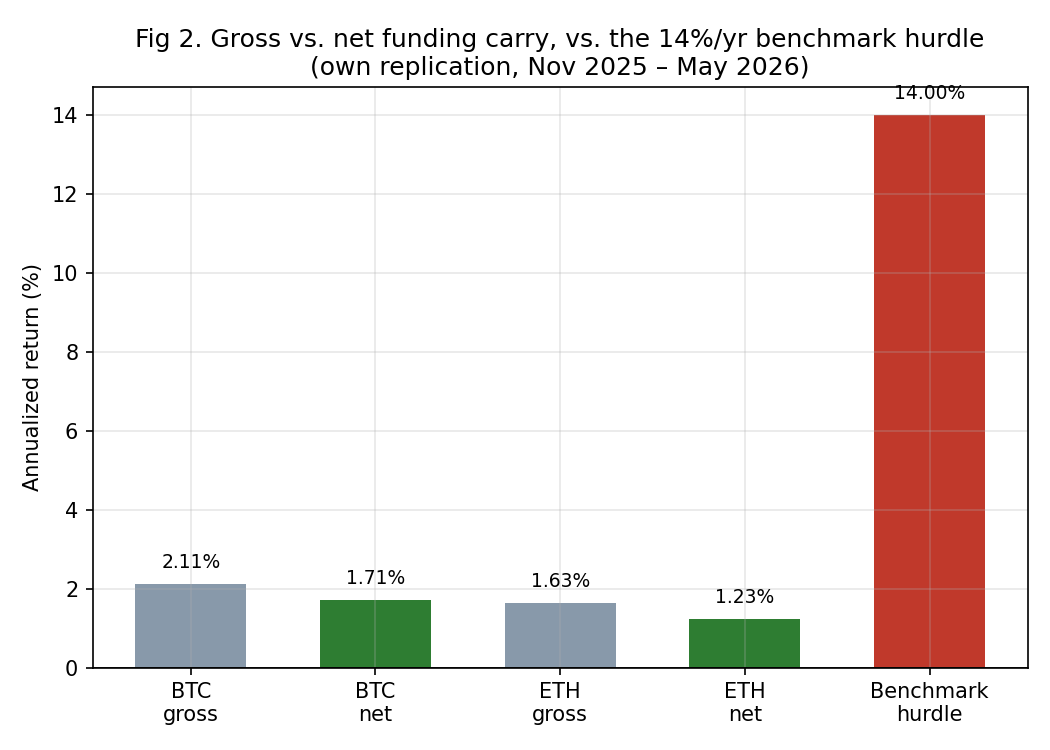
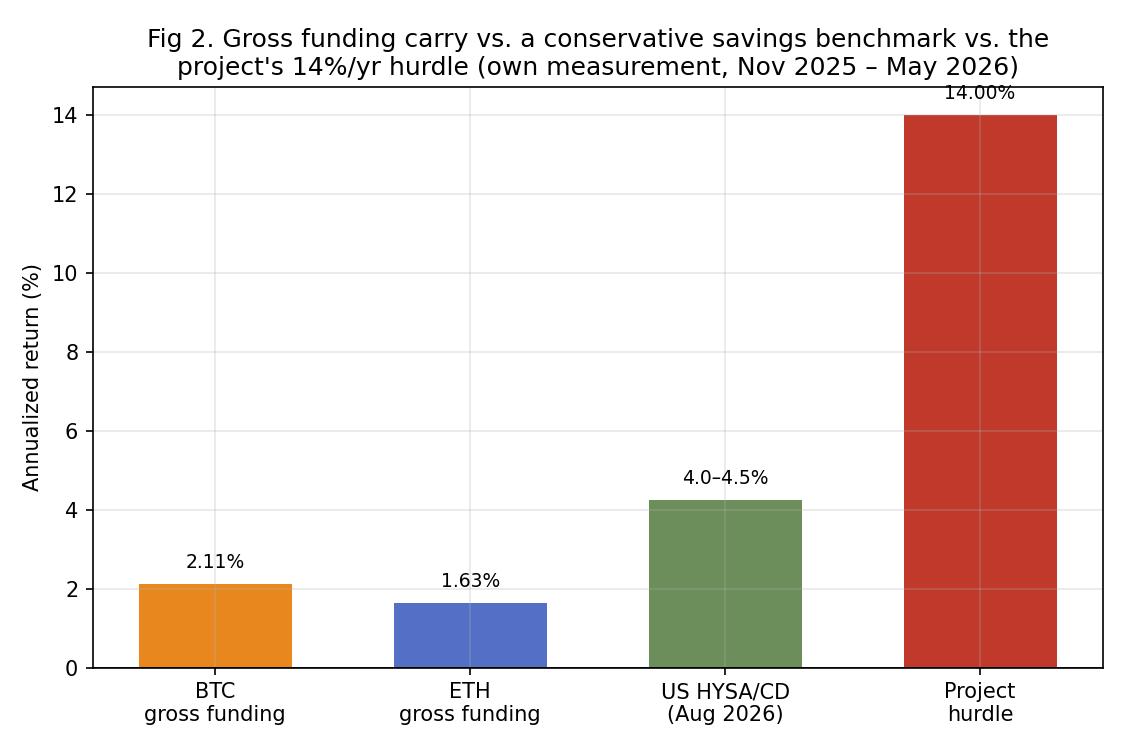
RN04: fix net-of-costs overclaim, tighten hurdle framing, update citations
- Removed mathematically invalid net-of-costs figures (flat round-trip
  cost cannot be treated as an annualized haircut without holding-period
  and turnover assumptions). Section 5 now argues the gross funding
  yield alone already fails the hurdle, no cost adjustment needed.
- Regenerated fig2 without fabricated net bars; now shows gross BTC/ETH
  vs. US HYSA/CD vs. project hurdle.
- Class line split: 'Empirically tested' scoped to the funding
  measurement only, not a full spot/perp strategy replication.
- Reframed the 14% hurdle as the project's own pre-registered
  capital-allocation decision (fixed internally 07.08, per
  SYSTEM3_ROADMAP.md) rather than an unverified crypto-lending rate.
  Trimmed the Knight/Markowitz/Sharpe paragraph; softened the
  arbitrage-decay claim from causal to 'consistent with'.
- Fixed typo (push-ing), precise 'mechanically annualized' wording in
  Section 4 and figure captions, updated He et al. and Schmeling et al.
  citations to their current status (He: last revised June 2025, under
  review at RFS; Schmeling: published in Management Science, online
  May 6 2026, DOI verified directly against pubsonline).

diff --git a/04-carry/carry-a-real-edge-i-wouldnt-trade.md b/04-carry/carry-a-real-edge-i-wouldnt-trade.md
@@ -3,7 +3,7 @@
 **Author:** Oleg Arefev
 **Published:** August 2026
 **Status:** `Published`
-**Class:** Empirically tested (own replication on real Binance funding data, BTC/ETH, 636 8-hour periods) + Literature-based (second candidate implementation — fixed-date basis — closed on literature alone, before replication; see Section 7)
+**Class:** Empirically tested (own measurement of real Binance BTC/ETH funding data, 636 8-hour periods each) + Literature-based (fixed-date basis closed on literature alone, before replication; see Section 7)
 
 **Research question:** perpetual futures funding carry has genuine academic backing — a documented, economically explained inefficiency, not a mined pattern. Does it still clear a realistic capital-cost hurdle when measured on real, recent Binance data, or does an edge that is statistically and economically real in the literature turn out to be too small to bother trading once it's actually measured?
 
@@ -13,13 +13,13 @@
 
 Carry is a different kind of candidate than the first three notes in this series. Grid's positive backtests came with unresolved capital-accounting and fill-model questions. Cross-sectional momentum's published spread turned out to be a genuinely marginal number that costs erased. Time-series trend's positive evidence belonged to a market regime that no longer exists. Perpetual funding carry, by contrast, arrives with an explained economic mechanism, multiple independent confirmations, and reported Sharpe ratios large enough that dismissing the idea outright, without checking it, would have been the wrong call.
 
-He, Manela, Ross, and von Wachter (2024), in "Fundamentals of Perpetual Futures," derive no-arbitrage bounds for perpetual futures pricing and find that an implied arbitrage strategy — long spot, short the perpetual, collecting the funding rate — generates a Sharpe ratio of 1.80 for Bitcoin even after accounting for realistic trading costs. Christin, Routledge, Soska, and Zetlin-Jones (2022), in "The Crypto Carry Trade," independently studying the same underlying trade on a major exchange, report in-sample annual Sharpe ratios "in the range of 7 to 10" — figures large enough that the paper's own framing treats the trade's profitability as a puzzle requiring an economic explanation, not simply a headline result. Schmeling, Schrimpf, and Todorov (2025), in "Crypto Carry," a BIS-affiliated study, document that crypto carry can exceed 40% per annum at times and averages roughly 7% per year on a fixed-date basis — about ten times the equivalent measure in traditional G10 currency carry.
+He, Manela, Ross, and von Wachter, in "Fundamentals of Perpetual Futures" (working paper, last revised June 2025), derive no-arbitrage bounds for perpetual futures pricing and find that an implied arbitrage strategy — long spot, short the perpetual, collecting the funding rate — generates a Sharpe ratio of 1.80 for Bitcoin even after accounting for realistic trading costs. Christin, Routledge, Soska, and Zetlin-Jones (2022), in "The Crypto Carry Trade," independently studying the same underlying trade on a major exchange, report in-sample annual Sharpe ratios "in the range of 7 to 10" — figures large enough that the paper's own framing treats the trade's profitability as a puzzle requiring an economic explanation, not simply a headline result. Schmeling, Schrimpf, and Todorov (2026), in "Crypto Carry" — originally circulated as a BIS working paper, now published in Management Science — document that crypto carry can exceed 40% per annum at times and averages roughly 7% per year on a fixed-date basis — about ten times the equivalent measure in traditional G10 currency carry.
 
 This is the kind of convergence this series looks for before opening a lab: three separate research teams, different data windows, different exact constructions, all finding the same thing — a real, economically explained, and historically large source of return from holding the "carry" side of crypto's perpetual futures market.
 
 ## 2. What Perpetual Funding Carry Actually Is
 
-Perpetual futures don't expire, so they can't rely on convergence to spot at a fixed maturity date the way traditional futures do. To keep the perpetual's price tethered to spot, exchanges built in a mechanism: every funding interval (eight hours, on Binance), whichever side of the market is push- ing the perpetual's price away from spot pays the other side a funding rate proportional to that gap. When the perpetual trades above spot — the more common condition in a market with persistent net-long, leveraged retail demand — longs pay shorts.
+Perpetual futures don't expire, so they can't rely on convergence to spot at a fixed maturity date the way traditional futures do. To keep the perpetual's price tethered to spot, exchanges built in a mechanism: every funding interval (eight hours, on Binance), whichever side of the market is pushing the perpetual's price away from spot pays the other side a funding rate proportional to that gap. When the perpetual trades above spot — the more common condition in a market with persistent net-long, leveraged retail demand — longs pay shorts.
 
 The carry trade harvests this payment while staying market-neutral: go short the perpetual and simultaneously long the equivalent notional in spot (or a fixed-maturity future), so that price moves in the underlying largely net out between the two legs, and what's left is the periodic funding payment. In principle, this converts a payment mechanism designed to keep two prices in line into an income stream for whoever is willing to hold the short side of that spread.
 
@@ -35,7 +35,7 @@ Schmeling, Schrimpf, and Todorov go further and establish a causal link using a 
 
 None of these three findings, on its own, closes the hypothesis — a documented long-run decline doesn't mean the strategy is unprofitable today, only that it's likely smaller than its historical average. That's exactly why this project didn't stop at the literature stage for Carry the way it did for Trend: the literature says the effect has been shrinking, not that it has reached zero, and only a direct measurement on current data can tell which is true right now.
 
-## 4. This Project's Own Replication: Real Binance Funding Data, November 2025 – May 2026
+## 4. This Project's Own Measurement: Real Binance Funding Data, November 2025 – May 2026
 
 This is where Carry departs from Grid and Trend and follows the same discipline as Momentum: an internal lab (`lab_03_bot1_oi_funding_price_divergence`) had already downloaded real, unmodified Binance funding-rate history for BTCUSDT and ETHUSDT — 636 eight-hour funding periods per coin, spanning November 2025 through May 2026, the most recent window available locally. Rather than accept a prior summary of that data at face value, we re-extracted the raw funding-rate files ourselves and recomputed every figure below directly, independent of any earlier calculation.
 
@@ -50,13 +50,13 @@ Annualizing each 8-hour funding print (rate × 3 periods per day × 365 days) an
 | Minimum (annualized) | −16.62%/year | −40.00%/year |
 | Share of periods negative | 32.5% | 33.3% |
 
-![Annualized funding rate, BTCUSDT & ETHUSDT, Nov 2025 – May 2026, against the 14%/year hurdle](figures/fig1_funding_rate_timeseries.png)
+![Mechanically annualized 8-hour funding rates, BTCUSDT & ETHUSDT, Nov 2025 – May 2026, against the 14%/year hurdle](figures/fig1_funding_rate_timeseries.png)
 
-A few things stand out. First, the maximum annualized rate observed anywhere in either coin's 636 periods was 10.95% — the strategy never once touched a rate that would, on its own, clear a 14%-per-year hurdle (Section 6), let alone sustain it. Second, funding was negative — meaning a short-carry position would have been paying, not collecting — for roughly a third of all observed periods on both coins, consistent with what the literature above frames as a genuinely two-sided, non-guaranteed payment, not a one-way subsidy.
+A few things stand out. First, the maximum mechanically-annualized rate observed anywhere in either coin's 636 periods was 10.95%. No individual 8-hour funding observation in the sample, when mechanically annualized, exceeded the project's 14% annual hurdle — and this is a per-observation ceiling, not a realized annual return; no position was actually held for a full year at that rate. Second, funding was negative — meaning a short-carry position would have been paying, not collecting — for roughly a third of all observed periods on both coins, consistent with what the literature above frames as a genuinely two-sided, non-guaranteed payment, not a one-way subsidy.
 
 Third, the distribution of individual 8-hour observations makes the same point another way — the mass of outcomes sits well under the hurdle line on both sides of zero, and the rare large-positive prints (near +11%/year) are no more frequent than the large-negative ones:
 
-![Distribution of annualized 8-hour funding observations, BTCUSDT & ETHUSDT](figures/fig4_funding_distribution.png)
+![Distribution of mechanically annualized 8-hour funding observations, BTCUSDT & ETHUSDT](figures/fig4_funding_distribution.png)
 
 Fourth, the regime is not stable even within this seven-month window. Breaking the sample down by month:
 
@@ -74,51 +74,67 @@ Fourth, the regime is not stable even within this seven-month window. Breaking t
 
 The regime shifted twice inside a seven-month window: a firmly positive stretch through January 2026, three consecutive negative months, and then a partial rebound in May. It's worth being precise about what this does and doesn't establish: the rebound means the effect isn't in a one-way, monotonic decline toward permanent negativity — but even at its best month in this table (November 2025, +5.4% for BTC), the observed rate is still well under half of the hurdle this note applies in Section 6. Regime instability here works in both directions, and neither direction gets close to the bar that matters.
 
-## 5. Net of Costs, Using This Series' Own Cost Convention
+## 5. Costs Do Not Need to Decide This Result
 
-Consistent with the methodology that produced Momentum's (Part II) net-of-costs figures, we apply a Binance USDⓈ-M taker fee of 0.05% per side plus an assumed 0.05% per side of slippage — the same fixed-before-the-fact cost assumption used in that note, not a number tuned to this result. A funding-carry position requires two legs (a spot leg and a perpetual leg) opened once and closed once over the measurement window, which comes to the same round-trip total used in Part II: 0.40 percentage points, applied here as a flat annualized haircut on the gross figure, consistent with treating cost as a recurring cost of maintaining and eventually unwinding the position rather than a one-time expense that shrinks toward zero the longer a position is held indefinitely.
+Part II (Momentum) computed a defensible net-of-costs figure because that strategy's structure made the cost calculation tractable: a fixed weekly rebalance, a known number of round trips, a flat per-trade fee and slippage assumption applied to a fixed number of trades. A funding-carry position doesn't reduce to the same simple arithmetic. Turning the round-trip cost of opening and closing a two-legged position into an annualized haircut requires assumptions this dataset alone doesn't let us pin down responsibly: how long a position is actually held before being unwound, how often it's rebalanced or re-hedged, how the spot leg is executed and financed, and how margin is maintained on the perpetual leg through a funding regime that periodically turns negative (Section 4). Applying a flat percentage-point subtraction as if it were already an annualized cost — treating a single transaction's round-trip fee as equivalent to a full year of holding — would misstate what the number represents. We did not reconstruct those execution and turnover assumptions from the funding-rate dataset alone, so this note does not report a synthetic net-of-costs return for Carry.
 
-| | BTC gross | BTC net | ETH gross | ETH net |
-|---|---|---|---|---|
-| Mean (annualized) | +2.11%/year | **+1.71%/year** | +1.63%/year | **+1.23%/year** |
+More importantly, this note doesn't need one to reach its decision. The measured gross funding yield — +2.11%/year annualized for BTC and +1.63%/year for ETH (Section 4) — already falls far below both the project's 14% hurdle and the simpler contemporary alternatives discussed in Section 6, before any cost, execution, or turnover assumption is even introduced. Where Momentum's case rested on costs consuming most of a marginal gross spread, Carry's case doesn't need costs to make the argument: the gross number alone is roughly an order of magnitude short of the bar. Any execution costs would further reduce the funding component measured here. A full strategy return could also be affected by basis changes, financing, hedge maintenance, and the timing of entry and exit — none of which are reconstructed from this dataset.
 
-![Gross vs. net annualized carry, BTC and ETH, against the 14%/year benchmark hurdle](figures/fig2_gross_net_hurdle.png)
+## 6. The Benchmark Hurdle: A Deliberately Demanding, Openly Subjective Threshold
 
-Costs here are a much smaller share of the gross figure than they were for cross-sectional momentum's weekly-rebalanced basket (roughly 19% of gross for BTC, versus about 70% for the momentum spread in Part II) — funding carry, held rather than rebalanced weekly, is structurally less cost-sensitive. That's a genuine point in this strategy's favor relative to Momentum, and it's worth stating plainly rather than glossing over: on a pure costs-erode-everything basis, Carry does noticeably better than Momentum did. It just starts, and ends, at a much lower gross number than the benchmark this project applies to any candidate (Section 6).
+Positive net-of-costs isn't the bar this project applies — the fourth methodology check (repository README) asks whether a strategy beats the best available alternative use of the same capital, given the risk and effort involved. The idea of a hurdle is hardly novel: from Knight's (1921) distinction between risk and uncertainty to Markowitz's (1952) portfolio theory and Sharpe's (1964) risk-return framework, finance has long treated return as meaningful only relative to the risk and alternative use of capital required to obtain it. None of those frameworks determines what this project's hurdle should be. That number is a capital-allocation decision, not a theorem.
 
-## 6. The Benchmark Hurdle: 14% a Year, and Why the Gap Isn't Close
+For Carry specifically, the project had already fixed a 14% annual hurdle before this measurement was run. It was not intended as a market risk-free rate or as a claim that every investor can earn 14% elsewhere. It was a project-level capital-allocation rule: below roughly that return, we did not consider an active crypto strategy sufficiently attractive to justify its additional exchange, execution, margin, and operational risks. It is not derived from an optimization, and this note does not claim it's the objectively correct hurdle for every reader — it's this project's own documented decision rule, fixed in advance and disclosed rather than tuned after seeing the result. A reader with a different risk tolerance, capital base, or set of accessible alternatives may reasonably set that bar lower, or higher — and should.
 
-Positive net-of-costs isn't the bar this project applies — the third methodology check (Section on methodology, repository README) asks whether a strategy beats the best available alternative use of the same capital, given the risk and effort involved. For Carry specifically, the project fixed this alternative in advance, before looking at the replication numbers: a realistic crypto-lending/borrowing rate available to a retail-sized account (on the order of 50,000+ USDT), roughly 14% per year (quoted, in the specific reference used, as about 3.5% per 90-day term). This is a stated project convention, not a number drawn from an academic paper — it reflects a real, currently available alternative use of capital rather than a textbook risk-free rate, and it should be re-checked against current lending rates whenever this note is revisited, the same way this series re-checks Binance's fee schedule.
+The point of naming alternative asset classes isn't to prove 14% is the right number — it's to explain why a hurdle exists at all, and why it isn't arbitrary even though this specific value is a project convention. Capital doesn't have to sit idle if Carry is rejected. Depending on jurisdiction and investor access, established alternatives include bank deposits and government securities, funds, real estate, private lending, and ordinary small-scale business activity — real estate flipping and short-term property management, mutual funds, peer-to-peer or crowdlending platforms, and commercial real estate among them, commonly advertising annualized returns in the high single digits to mid-teens depending on market, platform, and the risk actually taken on. None of those figures carry the same verification standard as the funding-rate numbers in Section 4 — they vary by country, product, and year, and this note doesn't try to pin a single "true" number on any of them the way it does for Binance's own data. The point isn't that every alternative reliably earns 14%; it's that an active, exchange-dependent crypto strategy has to offer enough incremental return to justify moving capital away from simpler, better-understood alternatives and accepting additional exchange, execution, margin, and strategy risk on top.
 
-Against that 14%/year hurdle, the net figures from Section 5 aren't marginally short — they're roughly an order of magnitude below it. BTC's best net-of-costs figure (+1.71%/year) is about an eighth of the hurdle; ETH's (+1.23%/year) is smaller still. Even the single best individual monthly observation across the entire 636-period sample (BTC, November 2025, +5.4% annualized, before costs) would need to nearly triple, and hold at that level continuously, to clear the bar — and the sample's own regime instability (Section 4) shows exactly the opposite pattern: three consecutive months of negative funding followed the best stretch, not a continuation of it.
+The most conservative end of that category is independently checkable, and worth stating precisely rather than gesturing at: as of August 2026, the best nationally available FDIC-insured US high-yield savings accounts and 12-month CDs pay in the range of roughly 4.0%–4.5% APY, carrying essentially none of a carry trade's exchange-counterparty risk, margin-management burden, or exposure to a funding regime that can turn negative (Section 4) — a boring, heavily regulated, single-leg product that already yields roughly double this note's own measured BTC gross funding rate.
 
-This is a different, and in some ways more interesting, kind of failure than the ones in the first three notes. Grid's problem was an inaccessible fee tier; Momentum's was costs consuming a marginal spread; Trend's was a regime that no longer exists. Carry's problem is neither of those: the edge is real, it's been measured directly on current data, it clears costs comfortably — and it's simply too small, relative to the opportunity cost of the capital required to run it, to be worth the operational complexity of a hedged, two-legged, continuously-monitored position.
+Against the project's own 14%/year hurdle, the gross figures from Section 4 aren't marginally short — they're roughly an order of magnitude below it, with no cost adjustment needed to reach that conclusion (Section 5). BTC's gross figure (+2.11%/year) is roughly a seventh of the hurdle; ETH's (+1.63%/year) is smaller still, roughly a ninth. Even the single best individual monthly observation across the entire 636-period sample (BTC, November 2025, +5.4% annualized) would need to nearly triple, and hold at that level continuously, to clear the bar — and the sample's own regime instability (Section 4) shows exactly the opposite pattern: three consecutive months of negative funding followed the best stretch, not a continuation of it. And even against the far more conservative ~4.0%–4.5% savings-account comparison above, BTC's gross funding rate of +2.11%/year still falls short outright — again, before any cost or execution assumption is introduced.
+
+There's a version of the classical risk-return logic above that many readers bring to crypto by default: crypto is high-risk, so it should be high-reward, funding carry included. That assumption had real grounding historically — Section 1's reported Sharpe ratios were extraordinary by any standard. What this note's own measurement shows is that, for this specific strategy, on this specific and recent window, the measured premium has compressed toward — and against the FDIC-insured comparison above, below — the reward available from an instrument carrying essentially none of the same risk. The theory isn't contradicted; the premium observed in our recent Binance funding sample is substantially smaller than the historical carry documented in the literature, consistent with the compression mechanisms identified by He, Christin, and Schmeling (Section 3).
+
+This is a different, and in some ways more interesting, kind of failure than the ones in the first three notes. Grid's problem was an inaccessible fee tier; Momentum's was costs consuming a marginal spread; Trend's was a regime that no longer exists. Carry's problem is neither of those: the edge is real, it's been measured directly on current data — and it's simply too small, before any cost or execution question even needs to be asked, relative to the opportunity cost of the capital required to run it, to be worth the operational complexity of a hedged, two-legged, continuously-monitored position, next to alternatives that are older, simpler, and in the most conservative case, already better documented than the strategy itself.
 
 ## 7. The Second Candidate: Fixed-Date Basis, Closed on Literature Alone
 
 This series tests at most two independently published implementations per hypothesis class before closing it. For Carry, the second literature-backed candidate is the fixed-date futures basis trade studied by Schmeling, Schrimpf, and Todorov — buying spot and selling a dated (rather than perpetual) futures contract to capture the basis directly, without relying on the funding-rate mechanism at all.
 
-We did not build a separate replication lab for this variant, and it's worth being explicit about why, using the same logic this series applied to Trend's second candidate (Part III): the paper's own reported average for this construction is roughly 7% per year — already below this note's 14%/year hurdle at the literature's own central estimate, before any of our own cost adjustments or the paper's own documented ETF-driven compression (Section 3) are even applied. Running an independent replication to confirm a number that starts below the bar even in its most favorable, unadjusted, literature-reported form would be the same category of unnecessary work this series avoided for Trend's 2,500-coin robustness check — a result close enough to a known negative that a full replication effort isn't a productive use of this project's resources. The fixed-date basis candidate is closed at the literature stage, not because it was ever tested and failed on our own numbers, but because the published number it would need to beat our own funding-harvest result on already starts under the hurdle it would need to clear.
+We did not build a separate replication lab for this variant, and it's worth being explicit about why, using the same logic this series applied to Trend's second candidate (Part III): the paper's own reported average for this construction is roughly 7% per year — already below this note's 14%/year hurdle at the literature's own central estimate, before the paper's own documented ETF-driven compression (Section 3) is even applied. Running an independent replication to confirm a number that starts below the bar even in its most favorable, unadjusted, literature-reported form would be the same category of unnecessary work this series avoided for Trend's 2,500-coin robustness check — a result close enough to a known negative that a full replication effort isn't a productive use of this project's resources. The fixed-date basis candidate is closed at the literature stage, not because it was ever tested and failed on our own numbers, but because the published number it would need to beat our own funding-measurement result on already starts under the hurdle it would need to clear.
 
-This is the one respect in which Carry's classification is a hybrid: the primary implementation (perpetual funding harvest, BTC/ETH) is Empirically tested — our own data, our own numbers, our own verdict against a pre-registered hurdle. The secondary implementation (fixed-date basis) is Literature-based — closed on the published evidence alone, the same way this entire hypothesis class would have been closed if the primary implementation's literature review, rather than its replication, had been decisive.
+This is the one respect in which Carry's classification is a hybrid: the primary component (perpetual funding measurement, BTC/ETH) is Empirically tested — our own data, our own numbers, measured directly against a pre-registered hurdle, without requiring a full net-of-costs strategy reconstruction (Section 5) to reach a verdict. The secondary implementation (fixed-date basis) is Literature-based — closed on the published evidence alone, the same way this entire hypothesis class would have been closed if the primary component's literature review, rather than its measurement, had been decisive.
 
 ## 8. Verdict
 
-Perpetual funding carry is not a strategy this series is closing because the effect isn't real, or because the literature is unconvincing, or because retail can't access the trade mechanically. It's closing because, measured honestly on real, recent Binance data for the two largest and most liquid perpetuals available, the net-of-costs return — +1.71%/year for BTC, +1.23%/year for ETH — falls roughly an order of magnitude short of a realistic, currently available alternative use of the same capital. The literature's own explanation for why this gap exists is coherent and, on the evidence reviewed in Section 3, well supported: arbitrage capital has grown, retail leverage has been curtailed by exchange policy, and institutional access to spot-hedging instruments (the 2024 ETF) has structurally reduced the very mispricing the trade is designed to capture. This project's own measurement is consistent with, not contradicted by, that story — the current numbers look like the tail end of a documented, multi-cause decline, not a data anomaly or a measurement error.
+Carry wasn't falsified. It was priced out of this project's opportunity set. This project's own Binance data still show positive average funding — approximately +2.11%/year gross for BTC and +1.63%/year gross for ETH — so, in that narrow sense, the mechanism documented in the literature is still visible today, not merely a historical artifact.
+
+Perpetual funding carry is not a strategy this series is closing because the effect isn't real, or because the literature is unconvincing, or because retail can't access the trade mechanically. It's closing because, measured honestly on real, recent Binance data for the two largest and most liquid perpetuals available, the gross funding yield — +2.11%/year for BTC, +1.63%/year for ETH — falls roughly an order of magnitude short of a realistic, currently available alternative use of the same capital, with no cost adjustment required to reach that conclusion (Section 5). The literature's own explanation for why this gap exists is coherent and, on the evidence reviewed in Section 3, well supported: arbitrage capital has grown, retail leverage has been curtailed by exchange policy, and institutional access to spot-hedging instruments (the 2024 ETF) has structurally reduced the very mispricing the trade is designed to capture. This project's own measurement is consistent with, not contradicted by, that story — the current numbers look like the tail end of a documented, multi-cause decline, not a data anomaly or a measurement error.
 
 The second literature-backed implementation (fixed-date basis) doesn't get its own replication, for the same reason Trend's second candidate didn't: its own published, most favorable number already sits below the bar this project applies. With both permitted candidates addressed — one empirically, one at the literature stage — the Carry hypothesis class is closed, not to be reopened by a third variant "to save it."
 
 ## 9. What This Means for a Retail Trader
 
-If you're comparing perpetual funding carry against simply lending the same capital at a realistic retail rate, the honest answer, on the data available at the time of writing, is: don't bother. The strategy isn't broken, isn't a mirage, and isn't secretly unprofitable after costs — on our own numbers it clears execution costs with room to spare. It's simply competing against an alternative that currently pays several times more, for a fraction of the operational complexity, monitoring burden, and liquidation risk that a continuously-hedged, two-legged perpetual carry position requires.
+A retail trader doesn't evaluate a strategy against zero. The relevant comparison is the return available on the same capital without putting it into a leveraged, two-legged trading position at all — and that comparison depends on the trader: their country, their currency, their banking access, and what's actually open to them. This project fixed one specific figure (14%/year, Section 6) as its own working hurdle, but the broader point survives even for a reader whose realistic alternative looks nothing like that number. Someone with access to short-term property flipping or management, mutual funds, crowdlending platforms, or commercial real estate may see annualized returns bracketing the high single digits to the mid-teens, none of which require exchange counterparty exposure or continuous margin management. Someone with no access to any of that — just an ordinary FDIC-insured savings account or CD — was still looking at roughly 4.0%–4.5%/year as of August 2026 (Section 6), nearly double this note's own +2.11%/year BTC gross figure, with no cost adjustment needed to reach that comparison.
+
+Put plainly: at roughly 2% gross, perpetual funding carry asks a trader to accept exchange risk, execution risk, periods of outright negative funding, active margin-management requirements, and the operational burden of maintaining two offsetting positions — for a return that a large share of retail traders can already match, or beat, by doing something closer to nothing. The strategy isn't broken and isn't a mirage — the gross edge is real and measured directly on current data (Section 4). It's simply competing, before any cost or execution-cost question even needs to be asked (Section 5), against alternatives, several of them decades older and far less operationally demanding, that currently pay as much or more.
+
+A reader may reasonably disagree with the 14% hurdle specifically. That disagreement doesn't invalidate the measurement — it just means the conclusion to draw from it is a personal one, not a house one. Replace the hurdle with your own opportunity cost. At the time of this test, BTC funding produced approximately +2.11%/year annualized gross and ETH +1.63%/year. If those numbers clear your personal hurdle once you've accounted for the strategy's exchange, execution, and margin-management risk, Carry may still make sense for you. They did not clear ours.
 
 This is worth sitting with as a distinct failure mode from the other three notes in this series, because it's the one most likely to mislead a reader who stops at the academic papers and never runs the comparison against their own actual alternative. A Sharpe ratio of 1.80, or Sharpe ratios "in the range of 7 to 10," sound unambiguously attractive read in isolation — and they were, historically, genuinely large numbers. But a Sharpe ratio describes risk-adjusted consistency, not absolute size, and a small, consistent edge can still lose a straightforward comparison against a larger, simpler, more liquid alternative. The lesson generalizes beyond Carry specifically: before adopting any strategy on the strength of its Sharpe ratio, the question this series keeps returning to is the right one to ask first — compared to what, and is that comparison still true today, on your own numbers, not the paper's.
 
+Our conclusion is not that Carry is a bad strategy. It's that approximately 2% a year, before accounting for exchange, execution, and margin-management risk, is not enough for this project to trade it. If your hurdle is lower, your conclusion may be different — the data are in Section 4, unmodified; change the hurdle and make your own call.
+
+None of this is financial advice, and none of the comparator figures above (real estate, funds, crowdlending, savings rates) are re-verified with the same rigor this note applies to its own Binance funding measurement — they change by country, platform, and year, and a reader should check current numbers for their own situation rather than treat any figure in this section as durable.
+
 ## References
 
-- He, S., Manela, A., Ross, O., von Wachter, V. (2024). "Fundamentals of Perpetual Futures." arXiv:2212.06888 (first draft December 2022, this draft July 2024).
+- He, S., Manela, A., Ross, O., von Wachter, V. "Fundamentals of Perpetual Futures." arXiv:2212.06888 / SSRN 4301150. First posted December 2022; last revised June 2025 (working paper; under review at the Review of Financial Studies as of this note's publication).
 - Christin, N., Routledge, B. R., Soska, K., Zetlin-Jones, A. (2022). "The Crypto Carry Trade." Carnegie Mellon University, working paper, August 2022.
-- Schmeling, M., Schrimpf, A., Todorov, K. (2025). "Crypto Carry." Bank for International Settlements / SSRN 4594813, version October 2025.
+- Schmeling, M., Schrimpf, A., Todorov, K. (2026). "Crypto Carry." *Management Science*, published online May 6, 2026, DOI: 10.1287/mnsc.2024.05069. (Originally circulated as BIS Working Paper No. 1087 / SSRN 4268371, first posted December 2022.)
+- NerdWallet, "Best High-Yield Savings Accounts of August 2026" (accessed August 2026); Bankrate, "Best CD Rates of August 2026" (accessed August 2026) — used in Section 6 for the FDIC-insured savings/CD comparison.
+- Knight, F. H. (1921). *Risk, Uncertainty, and Profit*. Houghton Mifflin.
+- Markowitz, H. (1952). "Portfolio Selection." *The Journal of Finance*, 7(1), 77–91.
+- Sharpe, W. F. (1964). "Capital Asset Prices: A Theory of Market Equilibrium under Conditions of Risk." *The Journal of Finance*, 19(3), 425–442.
 
 ---
 
